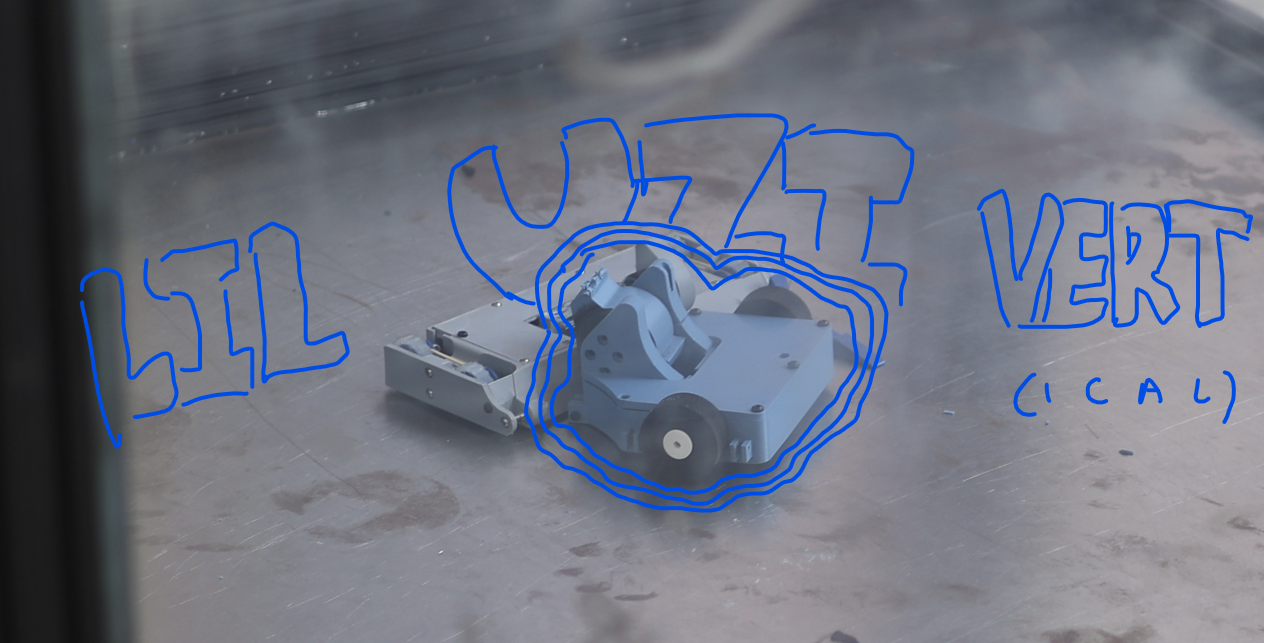
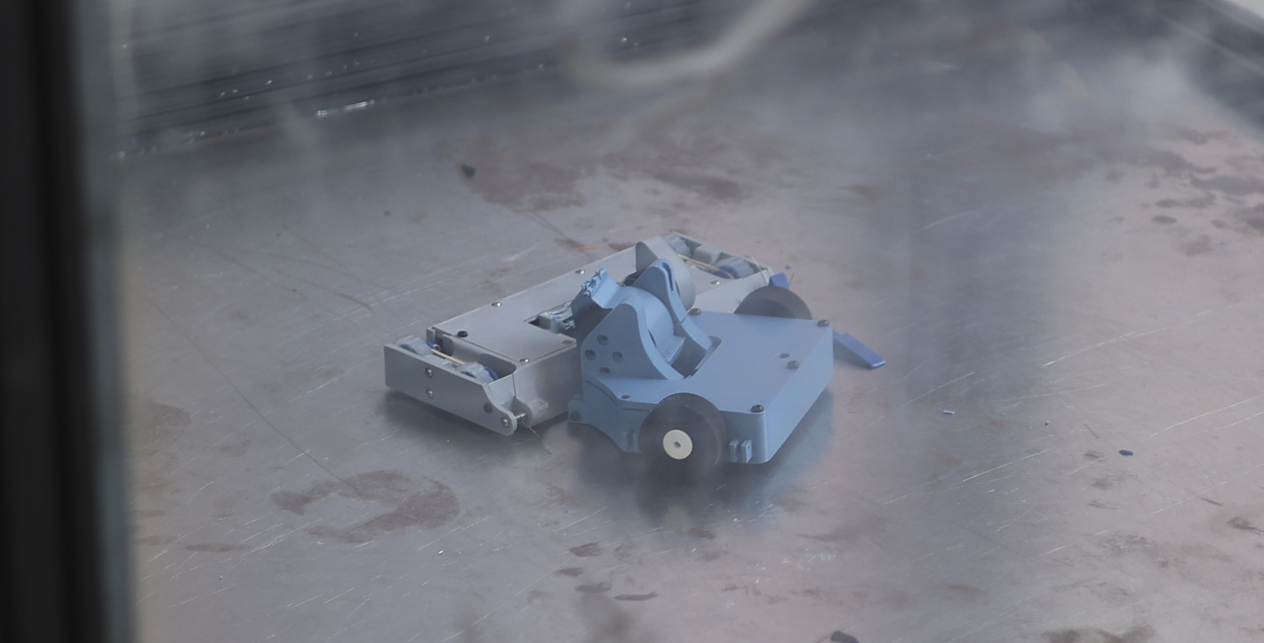
fix image path

diff --git a/index.html b/index.html
@@ -13,7 +13,7 @@
 
   <!-- HERO -->
   <section class="hero">
-    <div class="hero-content">
+    <div class= "hero-content">
 
       <!-- LEFT -->
       <div class="hero-text">
@@ -37,7 +37,7 @@
     </div>
 
     <!-- CLEAN IMAGE -->
-    <img src="assets/images/robot.png" class="hero-image" alt="Robot in arena">
+    <img src="assets/robot.png" class="hero-image" alt="robot">
   </section>
 
   <!-- ANNOTATED IMAGE -->
@@ -45,7 +45,7 @@
     <h2>Annotated Overview</h2>
 
     <img 
-      src="assets/images/robot_annotated.png" 
+      src="assets/robot_annotated.png" 
       class="annotated-image" 
       alt="Annotated robot diagram"
     >

diff --git a/style.css b/style.css
@@ -40,7 +40,7 @@ body {
 /* RIGHT VIDEO */
 .hero-video {
   width: 100%;
-  max-width: 420px;
+  max-width: 600px;
 }
 
 .hero-video iframe {
